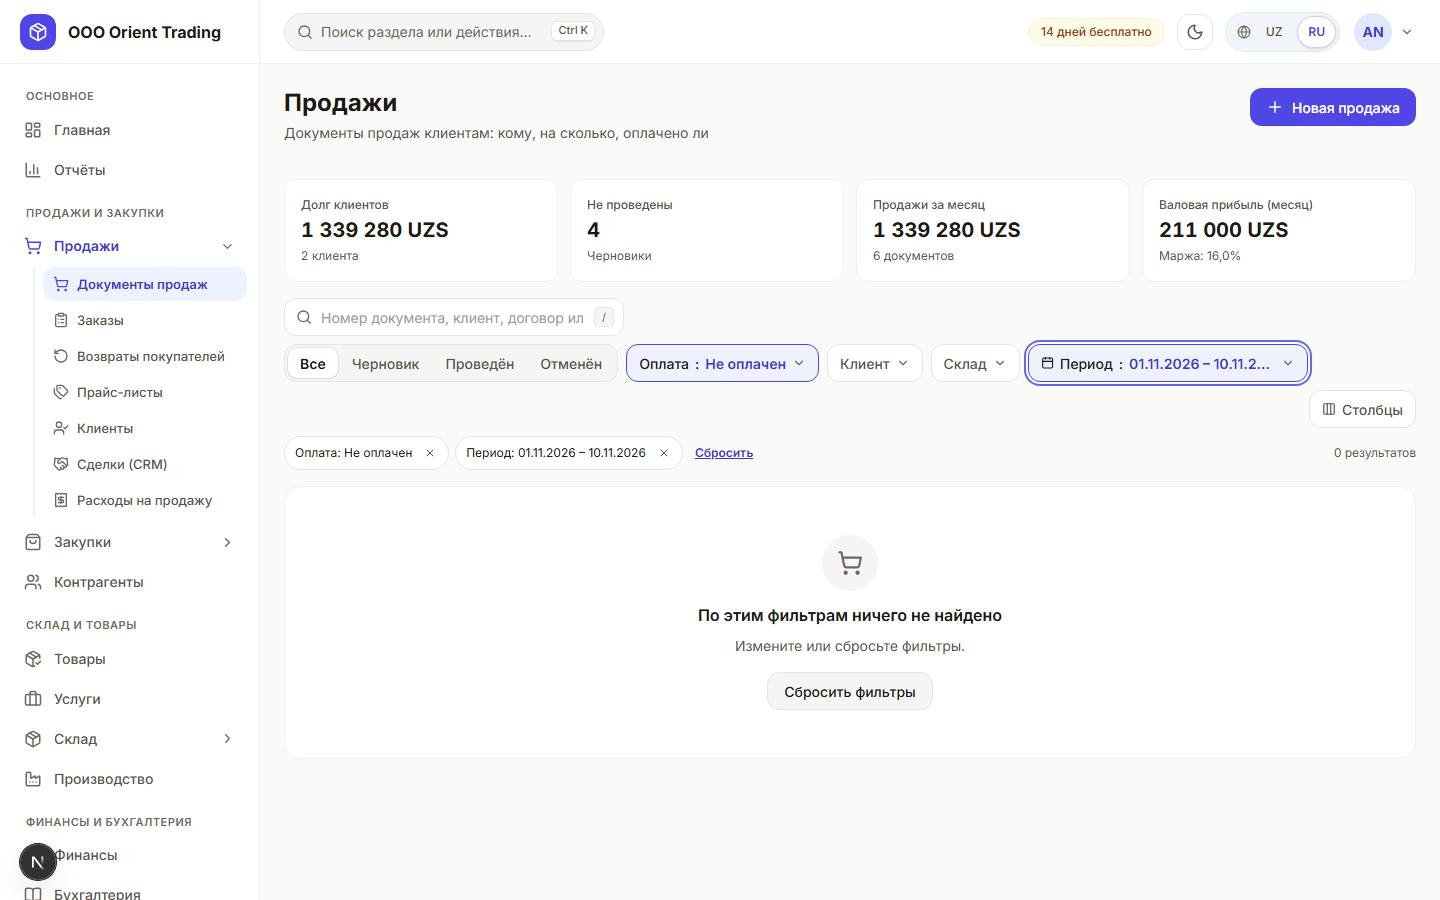
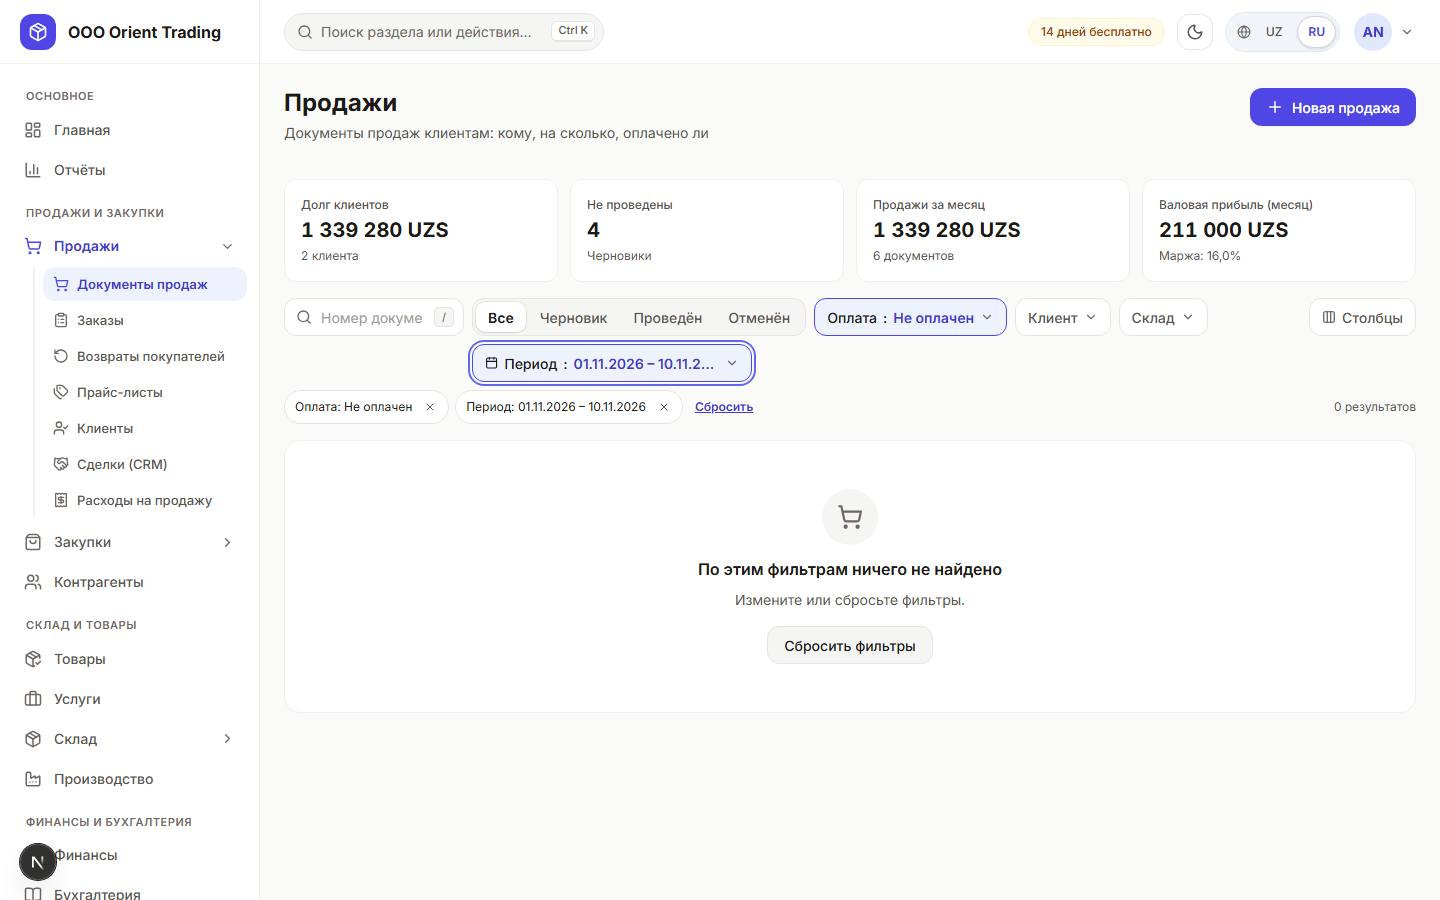
fix(ux): FilterBar on one row at wide desktop; tablet puts search on its own line
From 1400px the bar stays on one line and search gives way first. From 641
to 1399px search takes its own line and the controls flow together with
Columns ending the last line. The stat grid uses 2 columns below 1200px so
amounts no longer break inside the number. fb-shot.mjs reports the number
of lines the bar takes. fc-verify /sales: 50/50.

diff --git a/frontend/src/app/globals.css b/frontend/src/app/globals.css
@@ -1437,6 +1437,18 @@ button.rd-signal:hover { border-color: var(--rd-tone, var(--color-border)); back
 .fb-search { flex: 1 1 220px !important; max-width: 340px; }
 .fb-controls { display: flex; flex-wrap: wrap; align-items: center; gap: var(--space-2); min-width: 0; }
 .fb-columns { margin-left: auto; }
+/* Tablet / narrow desktop: search on its own line, then all controls flow together with Columns ending the last line. */
+@media (min-width: 641px) and (max-width: 1399px) {
+  .fb-search { flex: 1 1 100% !important; max-width: none; }
+  .fb-controls { display: contents; }
+}
+/* Wide desktop: one row. Search gives way first (down to 180px); only if the controls still don't fit do they wrap inside their own group. */
+@media (min-width: 1400px) {
+  .fb-row { flex-wrap: nowrap; align-items: flex-start; }
+  .fb-search { flex: 1 1 200px !important; min-width: 180px !important; }
+  .fb-controls { flex: 0 1 auto; }
+  .fb-columns { flex: none; }
+}
 .fb-btn {
   display: inline-flex; align-items: center; gap: 6px; height: 38px; padding: 0 12px; max-width: 280px;
   border: 1px solid var(--color-border); border-radius: var(--radius-md); background: var(--color-bg-input);
@@ -1545,7 +1557,7 @@ button.rd-signal:hover { border-color: var(--rd-tone, var(--color-border)); back
 
 /* ─── StatCard (components/ui/stats) — one neutral frame for every key number ─── */
 .stat-grid { --stat-cols: 4; display: grid; grid-template-columns: repeat(var(--stat-cols), minmax(0, 1fr)); gap: var(--space-3); }
-@media (max-width: 1023px) { .stat-grid { grid-template-columns: repeat(min(2, var(--stat-cols)), minmax(0, 1fr)); } }
+@media (max-width: 1199px) { .stat-grid { grid-template-columns: repeat(min(2, var(--stat-cols)), minmax(0, 1fr)); } }
 @media (max-width: 359px) { .stat-grid { grid-template-columns: minmax(0, 1fr); } }
 .stat-card { display: flex; flex-direction: column; align-items: flex-start; gap: 4px; min-width: 0; padding: var(--space-4); border: 1px solid var(--color-border-light); border-radius: var(--radius-md); background: var(--color-bg-secondary); color: var(--color-text-primary); }
 .stat-label { font-size: var(--text-xs); font-weight: var(--font-medium); color: var(--color-text-secondary); }
